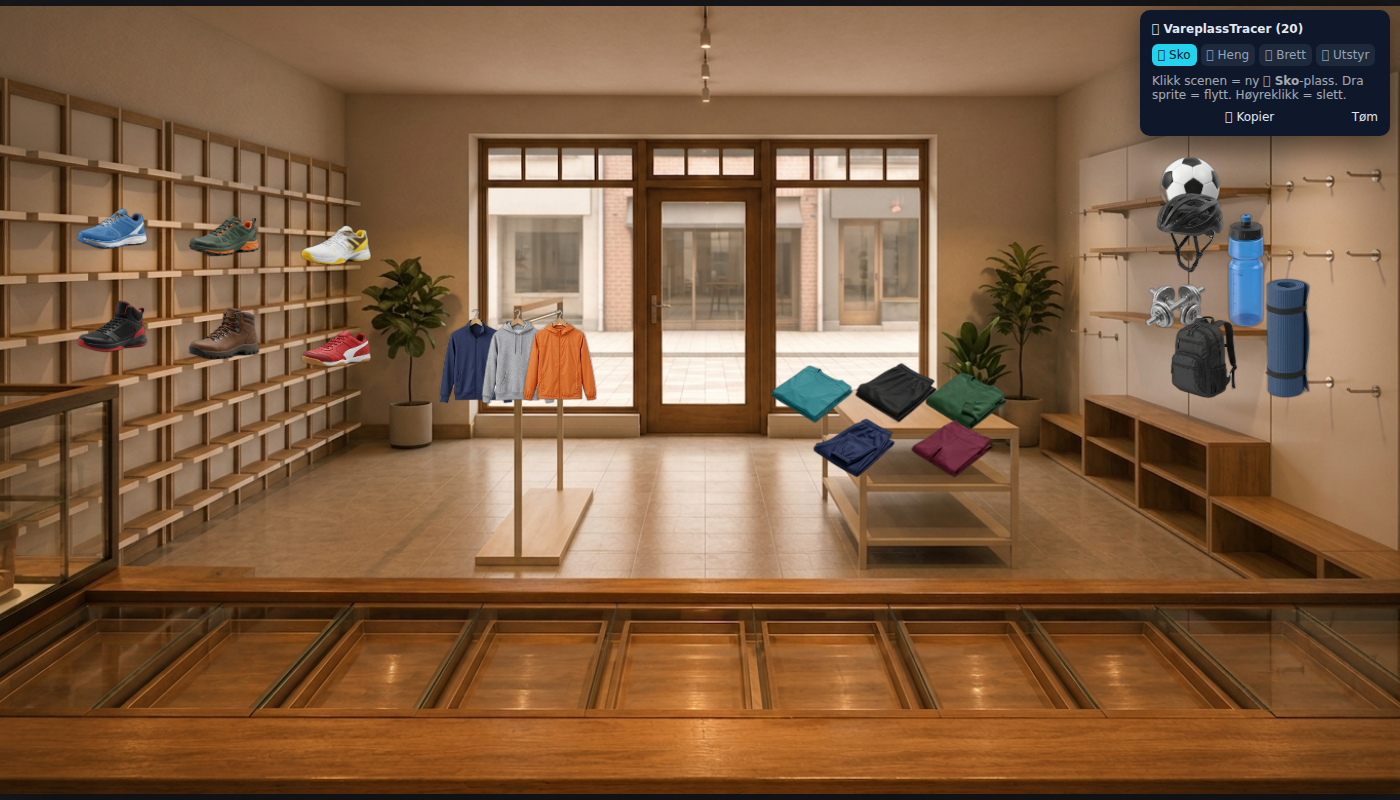
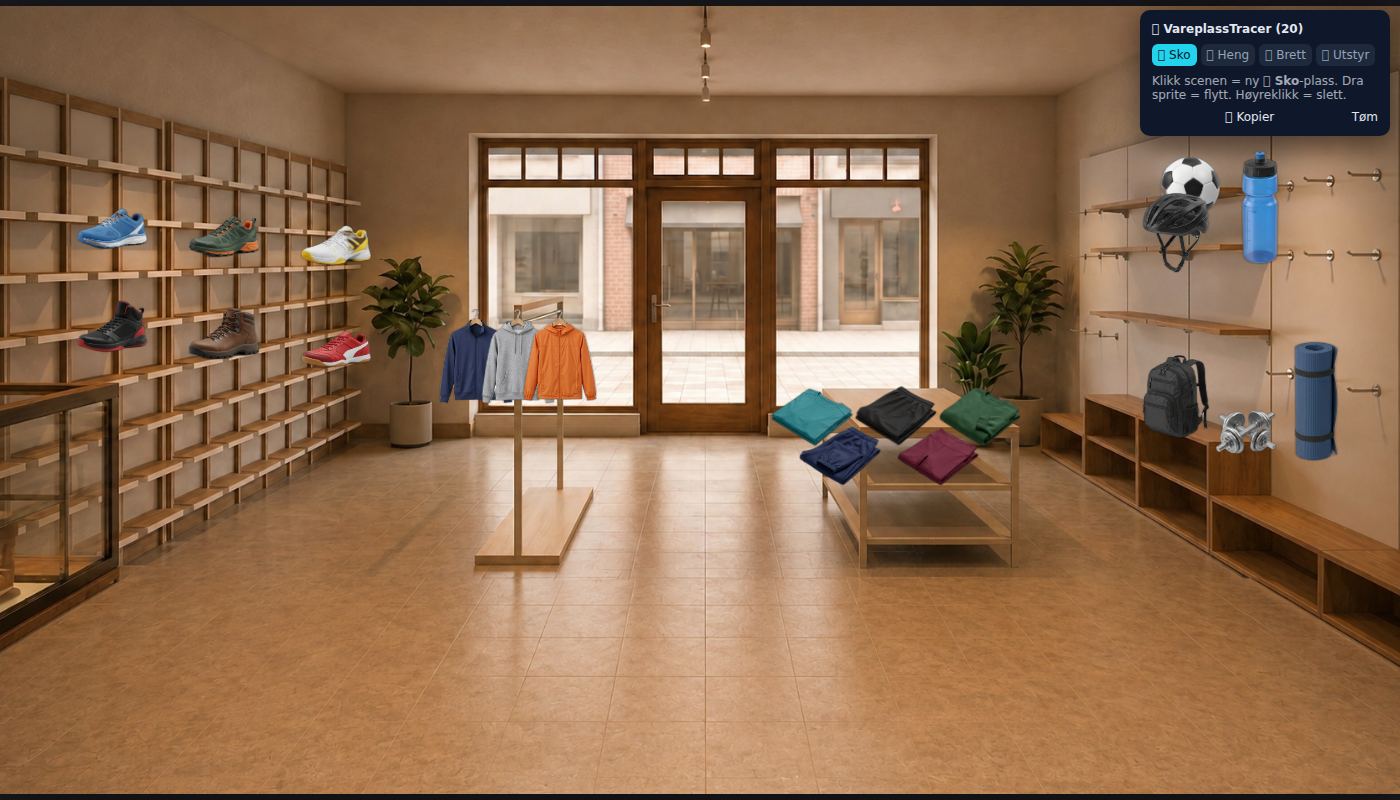
Sport M5: bytt til disk-fri interiør + rekalibrer brett/benk-plasser
- sport-interior-uten-disk.png (fra Espens NB): cafe-arvet glassdisk fjernet -> rent gulv.
- Verifisert mot original: kamera + alle møbelposisjoner identiske (50/50-blend skarp),
  kun bunnstripa (disk->gulv) + marginalt større bord avviker. Ingen synlig ✦ å patche.
- SportStillas: INTERIOR_IMG + SCENE_W/H=1672/940. industryDefinition: sceneImage +
  11 justerte vareplasser (5 brett + sekk/vekt/matte ned på nå-synlig benk, flaske til 2. hylle).
- Alle 20 vareplasser treffer møblene. tsc -b + vite build grønne. Se spor-c.md §9.

diff --git a/src/game/data/industryDefinition.ts b/src/game/data/industryDefinition.ts
@@ -307,7 +307,7 @@ export const SPORT: IndustryDefinition = {
     lager: {
       // Sportsbutikken bruker vareplass-modellen (bakt interiør), ikke
       // disk-monterens trau — tom trau-geometri, scenebildet er kun referanse.
-      sceneImage: '/assets/raw/sport-interior-mobler.png',
+      sceneImage: '/assets/raw/sport-interior-uten-disk.png',
       trau: [],
       trauCols: () => 1,
       speil: { sceneImage: '', trau: [] },
@@ -324,7 +324,7 @@ export const SPORT: IndustryDefinition = {
     { id: 'innkjop',      funksjon: 'Innkjøp',       tittel: 'Innkjøpsansvarlig',   emoji: '📦', farge: '#a78bfa', vaktrolle: false, maanedseffekt: null,            kjerne: false },
     { id: 'fagperson',    funksjon: 'Fag',           tittel: 'Sportsfaglig veileder',emoji: '🎽', farge: '#fb7185', vaktrolle: false, maanedseffekt: null,           kjerne: false },
   ],
-  // Kalibrerte vareplasser i sport-interior-mobler.png (1365×768). x/y = %,
+  // Kalibrerte vareplasser i sport-interior-uten-disk.png (1672×940). x/y = %,
   // scale = brøk av scenebredden. Startgjett fra rutenett-avlesning —
   // finjustert via /dev/sport-render + skjermbilde-iterasjon (spor-c.md).
   vareplasser: [
@@ -339,19 +339,21 @@ export const SPORT: IndustryDefinition = {
     { id: 'heng-1', type: 'heng', x: 34, y: 39, scale: 0.055, vare: 'treningsjakke' },
     { id: 'heng-2', type: 'heng', x: 37, y: 39, scale: 0.055, vare: 'hettegenser' },
     { id: 'heng-3', type: 'heng', x: 40, y: 39, scale: 0.055, vare: 'vindjakke' },
-    // Brettbord (midt-høyre) — topp (3) + underhylle (2)
-    { id: 'brett-1', type: 'brett', x: 58, y: 53, scale: 0.06, vare: 't-skjorte' },
-    { id: 'brett-2', type: 'brett', x: 64, y: 53, scale: 0.06, vare: 'treningsshorts' },
-    { id: 'brett-3', type: 'brett', x: 69, y: 54, scale: 0.06, vare: 'collegegenser' },
-    { id: 'brett-4', type: 'brett', x: 61, y: 60, scale: 0.06, vare: 'treningsbukse' },
-    { id: 'brett-5', type: 'brett', x: 68, y: 60, scale: 0.06, vare: 'tights' },
-    // Utstyrsvegg (høyre) — 3 tynne hyller (y26/34/41) + lav kubbe-enhet (y50)
+    // Brettbord (midt-høyre) — bord større/lavere i disk-fri versjon; senket
+    // bakre rad (3) + fremre rad (2) på bordplata (y-nivåene under)
+    { id: 'brett-1', type: 'brett', x: 58, y: 56, scale: 0.06, vare: 't-skjorte' },
+    { id: 'brett-2', type: 'brett', x: 64, y: 56, scale: 0.06, vare: 'treningsshorts' },
+    { id: 'brett-3', type: 'brett', x: 70, y: 56, scale: 0.06, vare: 'collegegenser' },
+    { id: 'brett-4', type: 'brett', x: 60, y: 61, scale: 0.06, vare: 'treningsbukse' },
+    { id: 'brett-5', type: 'brett', x: 67, y: 61, scale: 0.06, vare: 'tights' },
+    // Utstyrsvegg (høyre) — øvre tynne hyller (ball/hjelm/flaske) + lav kubbe/
+    // benk (nå mer synlig i disk-fri versjon: sekk/vekt/matte senket dit)
     { id: 'utstyr-1', type: 'utstyr', x: 85, y: 27, scale: 0.045, vare: 'fotball' },
-    { id: 'utstyr-2', type: 'utstyr', x: 85, y: 34, scale: 0.05,  vare: 'sykkelhjelm' },
-    { id: 'utstyr-3', type: 'utstyr', x: 84, y: 41, scale: 0.045, vare: 'handvekt' },
-    { id: 'utstyr-4', type: 'utstyr', x: 89, y: 41, scale: 0.03,  vare: 'vannflaske' },
-    { id: 'utstyr-5', type: 'utstyr', x: 86, y: 50, scale: 0.05,  vare: 'ryggsekk' },
-    { id: 'utstyr-6', type: 'utstyr', x: 92, y: 50, scale: 0.035, vare: 'yogamatte' },
+    { id: 'utstyr-2', type: 'utstyr', x: 84, y: 34, scale: 0.05,  vare: 'sykkelhjelm' },
+    { id: 'utstyr-4', type: 'utstyr', x: 90, y: 33, scale: 0.03,  vare: 'vannflaske' },
+    { id: 'utstyr-5', type: 'utstyr', x: 84, y: 55, scale: 0.05,  vare: 'ryggsekk' },
+    { id: 'utstyr-3', type: 'utstyr', x: 89, y: 57, scale: 0.045, vare: 'handvekt' },
+    { id: 'utstyr-6', type: 'utstyr', x: 94, y: 58, scale: 0.035, vare: 'yogamatte' },
   ],
 }
 

diff --git a/src/game/city/SportStillas.tsx b/src/game/city/SportStillas.tsx
@@ -20,9 +20,13 @@ import { IS_DEV_COORDS } from './DevCoordHelper'
 import { SPORT, type Vareplass, type PlassType } from '../data/industryDefinition'
 import { SPORT_VARER, sportVareById, repVareForType } from '../data/sportVarer'
 
-const INTERIOR_IMG = '/assets/raw/sport-interior-mobler.png'
-const SCENE_W = 1365
-const SCENE_H = 768
+// Disk-fri interiør (Espen fjernet den cafe-arvede glassdisken via NB, 2026-07-11).
+// Samme rom/kamera/møbelposisjoner som -mobler.png; kun bunnstripa (disk → gulv)
+// avviker + brettebordet er marginalt større. Høyoppløst (1672×940), ingen synlig
+// vannmerke. Se docs/rapporter/spor-c.md §9.
+const INTERIOR_IMG = '/assets/raw/sport-interior-uten-disk.png'
+const SCENE_W = 1672
+const SCENE_H = 940
 
 const PLASS_TYPER: PlassType[] = ['sko', 'heng', 'brett', 'utstyr']
 const TYPE_LABEL: Record<PlassType, string> = {

diff --git a/docs/rapporter/spor-c.md b/docs/rapporter/spor-c.md
@@ -173,3 +173,43 @@ headless (mangler emoji-font) — kosmetisk, ekte Chrome viser dem.
   (motorene leser alltid CAFE i dag).
 - **Vannflaske-seating** + evt. erstatte den ene røde jakka for mer variasjon.
 - **Fasade-integrasjon** i byen (i dag frittstående asset + vindusglimt).
+
+---
+
+## 9. Oppfølging (2026-07-11): disk-fri interiør
+
+Espen fjernet den cafe-arvede glassdisken via NB → `sport-interior-uten-disk-raw.png`.
+
+**Sammenligning mot originalen (gate: er kamera + ALLE møbelposisjoner identiske?):**
+Verifisert via pikseldiff, 50/50-blend og zoom-crops.
+- **Kamera/perspektiv:** identisk.
+- **Skovegg, klesstativ, utstyrsvegg (hyller/kroker), høyre benk/kubbe:**
+  posisjonelt identiske (helt skarpe i 50/50-blend, ingen ghosting). Disk-
+  fjerningen AVDEKKET mer av gulvet + benken som disken før skjulte.
+- **Ett reelt avvik:** brettebordet er marginalt STØRRE og litt lavere.
+- **Bunnstripa:** disk → gulv (den tiltenkte endringen).
+- **Dimensjon:** 1365×768 → 1672×940 (nær-identisk sideforhold 1.777→1.779;
+  %-koordinatmodellen bæres uendret over).
+
+**Konklusjon: JA (samme rom, samme kamera, samme fikstur-posisjoner)** — det ene
+avviket (bord) + de avdekkede lavere flatene faller under «juster de få som
+bommer nederst». Byttet gjennomført.
+
+**✦-vannmerke:** Sjekket nede t.h. + hele bunnstripa + hjørner (crop, kontrast-
+oppblåsing 3×, near-white-skann). **Ingen synlig ✦ funnet** — de lyseste bunn-
+pikslene klynger seg midt i bildet (dørlys-refleks på gulvet), ikke i et hjørne.
+Kun usynlig SynthID gjenstår trolig. Ingen patching nødvendig (som originalen).
+
+**Rekalibrering (skjermbilde-løkke, 2 iterasjoner):**
+- Uendret og fortsatt korrekt: 6 sko, 3 heng, 2 øvre utstyrshyller (ball/hjelm).
+- Justert NED (avdekkede lavere flater): 5 brett-plasser til det større/lavere
+  bordet; sekk/håndvekt/yogamatte ned på den nå-synlige lave benken; vannflaske
+  flyttet til 2. hylle. Alle 20 plasser treffer møblene i sluttrenderen.
+
+**Endret:** `SportStillas.tsx` (INTERIOR_IMG + SCENE_W/H=1672/940),
+`industryDefinition.ts` (sceneImage + 11 justerte vareplasser),
+`sport-interior-uten-disk.png` (ny scene), oppdaterte skjermbilder.
+
+**Merk — antall vareplasser:** oppdraget nevnte «37 vareplasser», men den bygde
+butikken har **20** (mandatet krevde min. 15; jeg kalibrerte 20). Ingen 37 har
+eksistert i denne grenen — flagget for ordens skyld.
